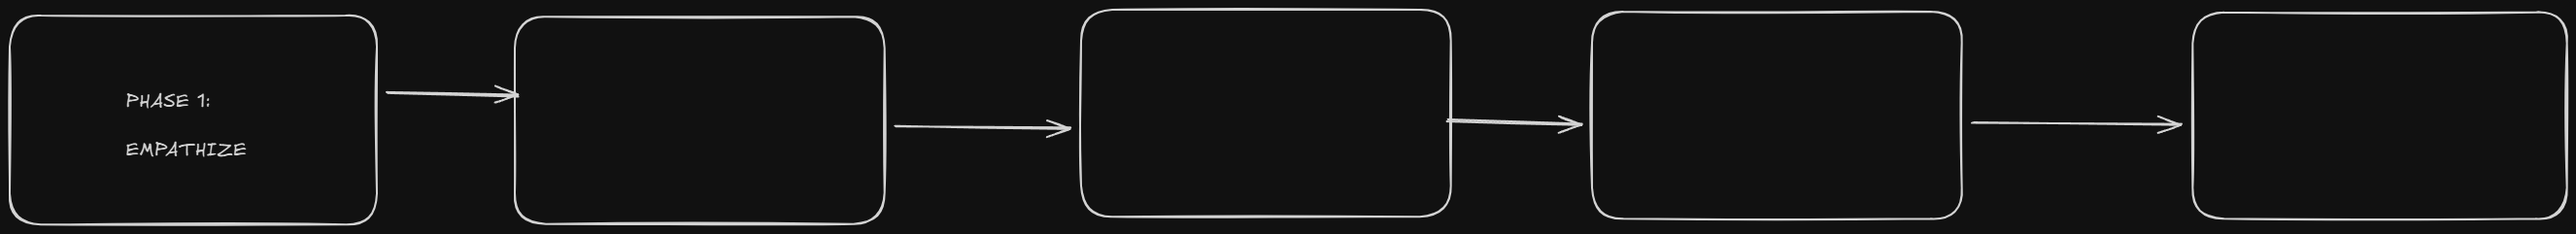
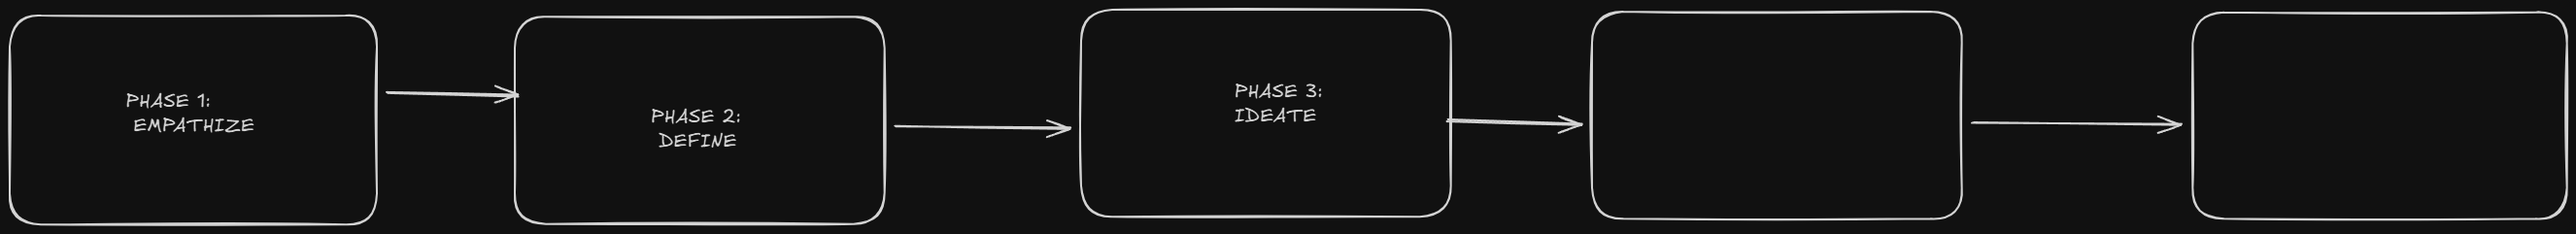
vault backup: 2026-01-19 16:16:50

diff --git a/Excalidraw/Drawing 2026-01-19 16.07.11.excalidraw.md b/Excalidraw/Drawing 2026-01-19 16.07.11.excalidraw.md
@@ -11,8 +11,13 @@ tags: [excalidraw]
 
 ## Text Elements
 PHASE 1: 
+ EMPATHIZE ^0nZYNlGl
 
-EMPATHIZE ^0nZYNlGl
+PHASE 2: 
+ DEFINE ^f53deDlg
+
+PHASE 3: 
+IDEATE ^ZmyjrLsA
 
 %%
 ## Drawing
@@ -23,44 +28,50 @@ yZ5J5f5ymFH5lJTtABYZpZ4Z7cgKEnVueYB2ScupBEJlaW4eeJntRcXl1brTbnZ7WAbiVApZ7MKCkNgA
 
[1 lines of base64/hex data omitted]
 
[2 lines of base64/hex data omitted]
 
[2 lines of base64/hex data omitted]
 
[2 lines of base64/hex data omitted]
 
[2 lines of base64/hex data omitted]
 
[2 lines of base64/hex data omitted]
 
[2 lines of base64/hex data omitted]
 
[2 lines of base64/hex data omitted]
 
[2 lines of base64/hex data omitted]
 
[2 lines of base64/hex data omitted]
 
[2 lines of base64/hex data omitted]
 
[2 lines of base64/hex data omitted]
 
[2 lines of base64/hex data omitted]
 
[2 lines of base64/hex data omitted]
 
[2 lines of base64/hex data omitted]
 
[2 lines of base64/hex data omitted]
 
[2 lines of base64/hex data omitted]
 
[2 lines of base64/hex data omitted]
 
[2 lines of base64/hex data omitted]
 
[2 lines of base64/hex data omitted]
 
[2 lines of base64/hex data omitted]
+
[1 lines of base64/hex data omitted]
+
[1 lines of base64/hex data omitted]
+
[1 lines of base64/hex data omitted]
 ```
 %%
